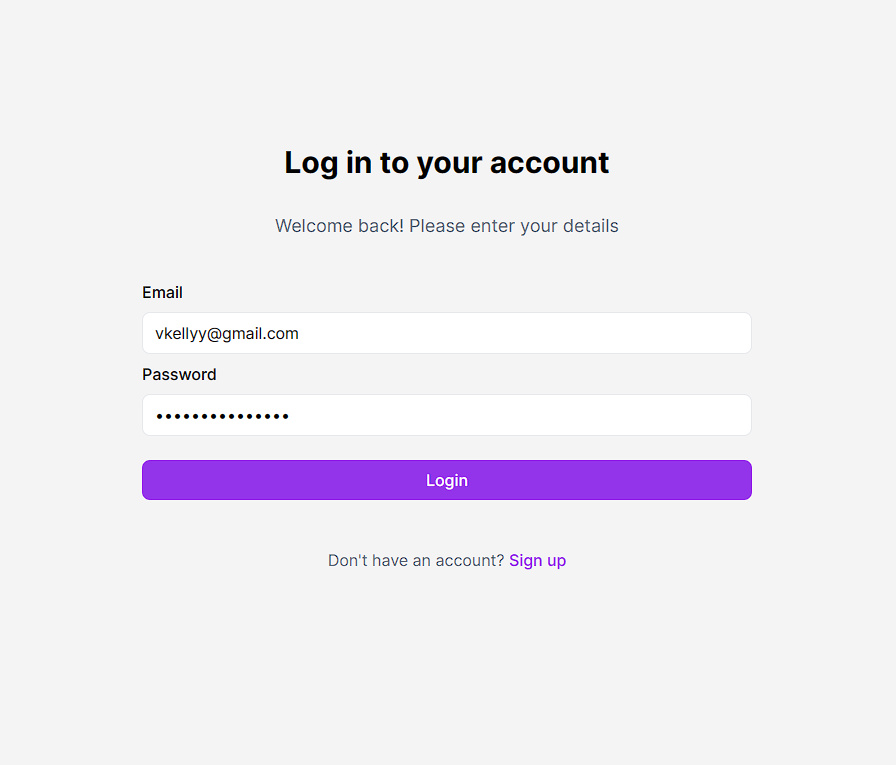
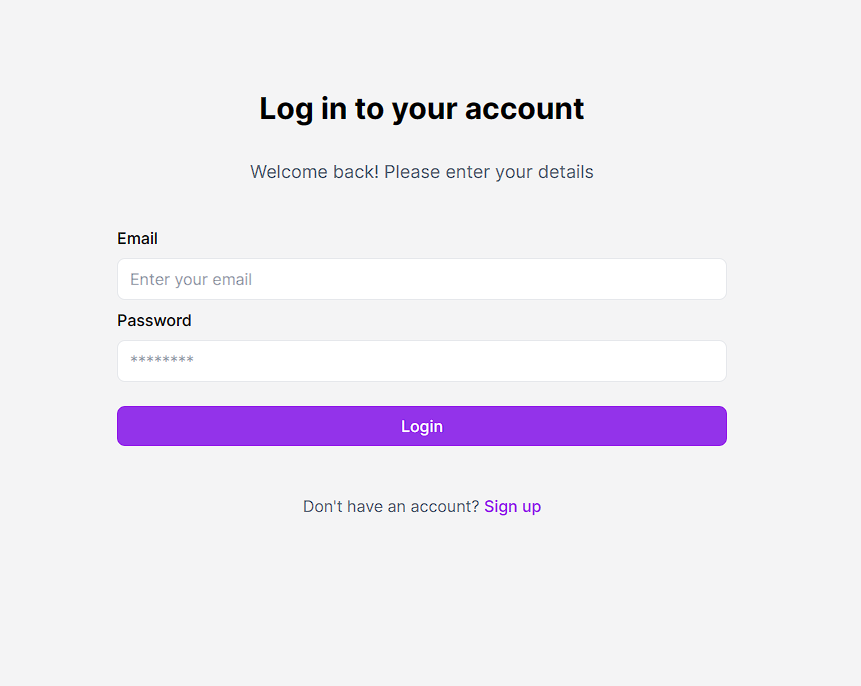
update readme

diff --git a/client/src/pages/Login.tsx b/client/src/pages/Login.tsx
@@ -20,8 +20,8 @@ export function Login() {
             required
             type="email"
             name="email"
-            defaultValue="vkellyy@gmail.com"
-            //placeholder="Enter your email"
+            //defaultValue="vkellyy@gmail.com"
+            placeholder="Enter your email"
           />
         </FormItem>
         <FormItem label="Password">
@@ -29,8 +29,8 @@ export function Login() {
             required
             type="password"
             name="password"
-            defaultValue="V_HHicBASx5_P2M"
-            //placeholder="********"
+            //defaultValue="V_HHicBASx5_P2M"
+            placeholder="********"
           />
         </FormItem>
         <div className="py-6">
